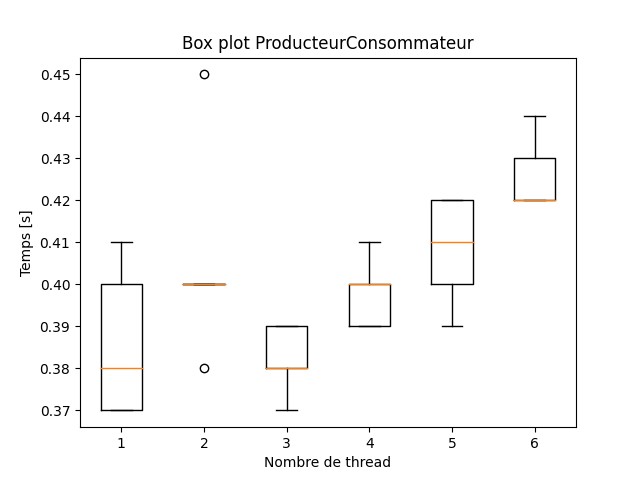
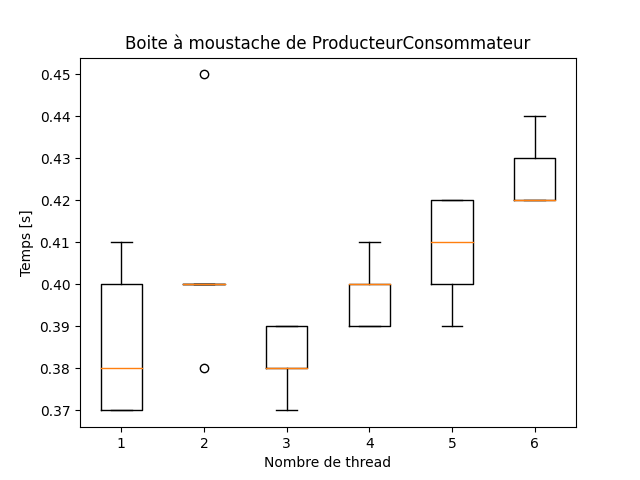
corrections

Changed region(s): [[0.1875, 0.0625, 0.8438, 0.125]]

diff --git a/Projet_SI/plot.py b/Projet_SI/plot.py
@@ -19,7 +19,7 @@ def moustache1(data_name, name):
     plt.boxplot([data_1,data_2,data_3,data_4,data_5,data_6], labels=[1,2,3,4,5,6])
     plt.ylabel('Temps [s]')
     plt.xlabel('Nombre de thread')
-    plt.title('Box plot ' + name)
+    plt.title('Boite à moustache de ' + name)
     plt.savefig('../Projet_SI/Projet_SI/Graphe/'+name+'.png')
     plt.close()
 
@@ -39,7 +39,7 @@ def moustache(data_name, name):
     plt.boxplot([data_2,data_3,data_4,data_5,data_6], labels=[2,3,4,5,6])
     plt.ylabel('Temps [s]')
     plt.xlabel('Nombre de thread')
-    plt.title('Box plot ' + name)
+    plt.title('Boite à moustache de ' + name)
     plt.savefig('../Projet_SI/Projet_SI/Graphe/'+name+'.png')
     plt.close()
 
